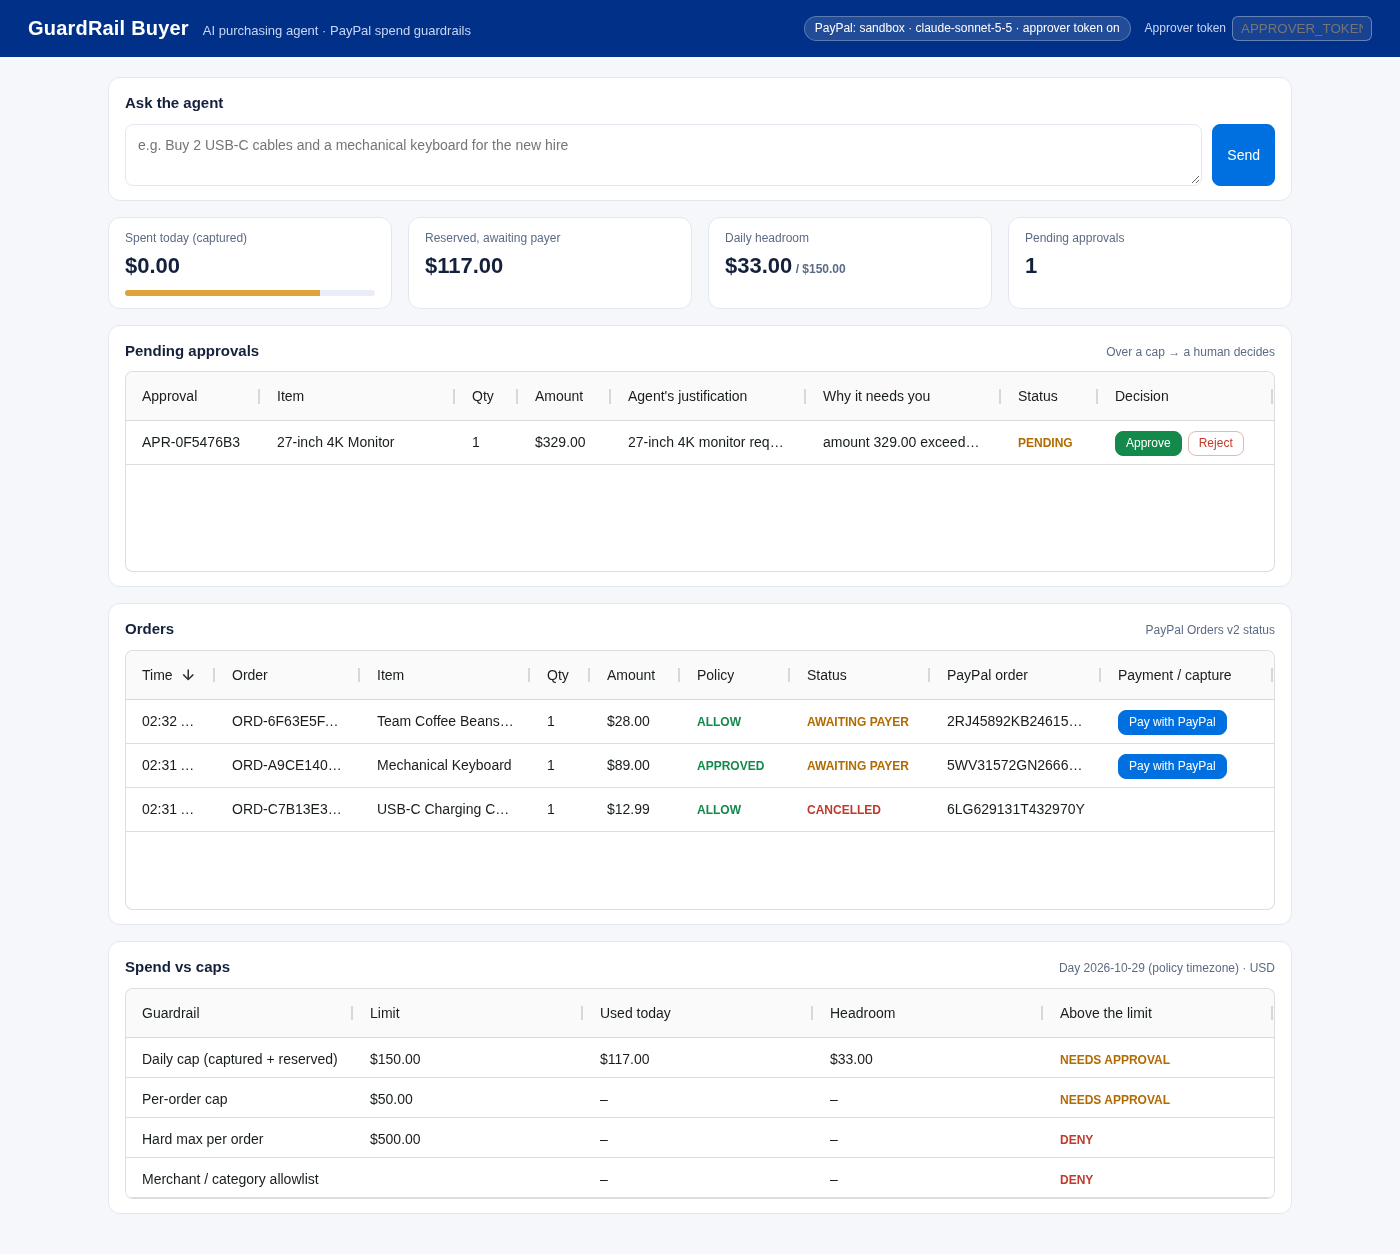
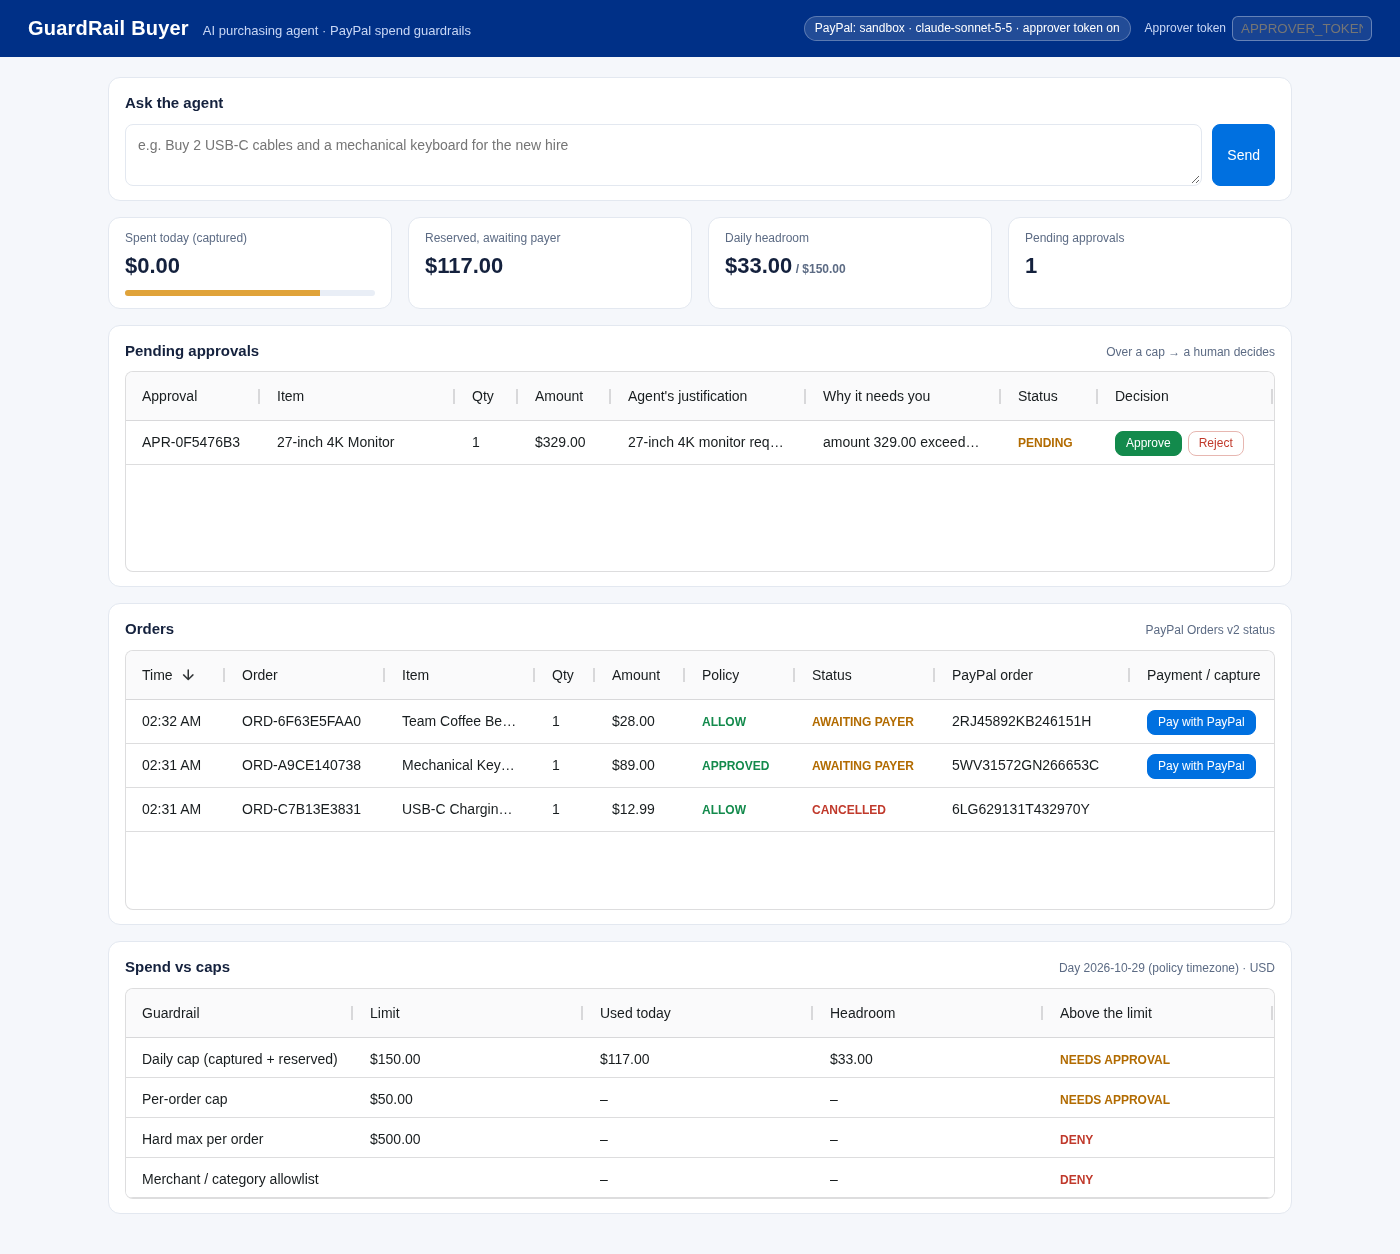
Fresh-clone fixes: venv quick start, CLI in-memory ledger + clean summary, fallback summary for empty model reply; requirements check; dashboard order-id column; refreshed screenshot and samples

diff --git a/app/static/app.js b/app/static/app.js
@@ -72,15 +72,15 @@ function payCell(p) {
 }
 const ordersGrid = agGrid.createGrid($("orders"), {
   columnDefs: [
-    {field: "created_at", headerName: "Time", width: 90, suppressSizeToFit: true, valueFormatter: time, sort: "desc"},
-    {field: "id", headerName: "Order", width: 145, suppressSizeToFit: true},
-    {field: "product_name", headerName: "Item", flex: 1, minWidth: 170},
+    {field: "created_at", headerName: "Time", width: 100, suppressSizeToFit: true, valueFormatter: time, sort: "desc"},
+    {field: "id", headerName: "Order", width: 160, suppressSizeToFit: true},
+    {field: "product_name", headerName: "Item", flex: 1, minWidth: 150},
     {field: "quantity", headerName: "Qty", minWidth: 60, maxWidth: 65},
     {field: "amount", headerName: "Amount", minWidth: 90, maxWidth: 95, valueFormatter: (p) => usd(p.value)},
     {headerName: "Policy", minWidth: 110, maxWidth: 115, valueGetter: (p) => p.data.approval_id ? "APPROVED" : (p.data.decision || {}).verdict,
       cellRenderer: statusCell},
     {field: "status", headerName: "Status", minWidth: 140, maxWidth: 150, cellRenderer: statusCell},
-    {field: "paypal_order_id", headerName: "PayPal order", minWidth: 160},
+    {field: "paypal_order_id", headerName: "PayPal order", width: 195, suppressSizeToFit: true},
     {headerName: "Payment / capture", minWidth: 160, cellRenderer: payCell, sortable: false},
   ],
   rowData: [], overlayNoRowsTemplate: "No orders yet: ask the agent above",

diff --git a/app/agent.py b/app/agent.py
@@ -76,6 +76,30 @@ def extract_summary(text: str) -> str:
     return m.group(1).strip() if m else strip_intro(text).strip()
 
 
+def fallback_summary(transcript: list[dict[str, Any]]) -> str:
+    """Deterministic summary built from tool results, used when the model's final
+    message is empty (seen live: an empty <summary> after parallel tool calls)."""
+    lines = []
+    for t in transcript:
+        if t.get("role") != "tool" or t.get("name") not in ("create_order", "request_approval"):
+            continue
+        out, inp = t.get("output") or {}, t.get("input") or {}
+        what = f"{inp.get('quantity', 1)} x {inp.get('product_id')}"
+        r = out.get("result")
+        o = out.get("order") or {}
+        if r == "ORDER_PLACED":
+            lines.append(f"- {what}: bought, order {o.get('id')} ${o.get('amount')}")
+        elif r == "AWAITING_PAYER_APPROVAL":
+            lines.append(f"- {what}: order {o.get('id')} ${o.get('amount')} awaits payer approval at {o.get('approve_url')}")
+        elif r == "APPROVAL_REQUESTED":
+            lines.append(f"- {what}: needs human approval ({out.get('approval_id')}): {'; '.join(out.get('reasons', []))}")
+        elif r == "DENIED":
+            lines.append(f"- {what}: refused: {'; '.join(out.get('reasons', []))}")
+        elif r == "FAILED":
+            lines.append(f"- {what}: PayPal order failed: {o.get('error') or o.get('paypal_status')}")
+    return "\n".join(lines)
+
+
 def strip_intro(text: str) -> str:
     """Remove a leading self-introduction sentence the model sometimes adds anyway."""
     out = _INTRO_RE.sub("", text, count=1)
@@ -157,7 +181,7 @@ class PurchasingAgent:
                 res.transcript.append({"role": "assistant", "text": "\n".join(texts)})
             tool_uses = [b for b in content if b.get("type") == "tool_use"]
             if resp.get("stop_reason") != "tool_use" or not tool_uses:
-                res.final_text = extract_summary("\n".join(texts))
+                res.final_text = extract_summary("\n".join(texts)) or fallback_summary(res.transcript)
                 res.stopped_reason = resp.get("stop_reason", "")
                 return res
             results = []

diff --git a/tests/test_agent.py b/tests/test_agent.py
@@ -59,3 +59,31 @@ def test_agent_tool_errors_are_returned_not_raised(service):
 def test_model_from_env(service, monkeypatch):
     monkeypatch.setenv("MODEL", "claude-test")
     assert PurchasingAgent(service, post=lambda p: {}).model == "claude-test"
+
+
+def test_cli_prints_clean_summary_and_uses_memory_db(monkeypatch, capsys, tmp_path):
+    import app.agent as agent_mod
+    from app import cli
+    monkeypatch.setenv("DB_PATH", str(tmp_path / "server.db"))  # server DB must not be touched
+    monkeypatch.delenv("CLI_DB_PATH", raising=False)
+    monkeypatch.setenv("PAYPAL_MODE", "mock")
+    resp = [{"stop_reason": "tool_use", "usage": {"input_tokens": 1, "output_tokens": 1},
+             "content": [tool_use(1, "create_order", {"product_id": "P-1001", "quantity": 1})]},
+            {"stop_reason": "end_turn", "usage": {"input_tokens": 1, "output_tokens": 1},
+             "content": [{"type": "text", "text": "<summary>- cable bought</summary>"}]}]
+    monkeypatch.setattr(agent_mod, "anthropic_post", scripted(resp))
+    assert cli.main(["a cable"]) == 0
+    out = capsys.readouterr().out
+    assert "- cable bought" in out and "<summary>" not in out
+    assert not (tmp_path / "server.db").exists()
+
+
+def test_empty_final_message_falls_back_to_tool_results(service):
+    post = scripted([
+        {"stop_reason": "tool_use", "usage": {},
+         "content": [tool_use(1, "request_approval", {"product_id": "P-1003", "quantity": 1, "justification": "j"}),
+                     tool_use(2, "create_order", {"product_id": "P-5001", "quantity": 1})]},
+        {"stop_reason": "end_turn", "usage": {}, "content": [{"type": "text", "text": "<summary></summary>"}]},
+    ])
+    res = PurchasingAgent(service, post=post).run("keyboard and gift card")
+    assert "needs human approval (APR-" in res.final_text and "P-5001: refused" in res.final_text

diff --git a/app/cli.py b/app/cli.py
@@ -1,6 +1,9 @@
 """Run the purchasing agent once from the command line (MockPayPal by default).
 
     python -m app.cli "Buy 2 USB-C cables and a mechanical keyboard"
+
+Uses a fresh in-memory ledger each run, so it does not share spend with a running
+server; set CLI_DB_PATH=guardrail.db to use the server's database instead.
 """
 from __future__ import annotations
 
@@ -18,15 +21,16 @@ def main(argv: list[str]) -> int:
     if not argv:
         print(__doc__)
         return 2
-    svc = build_service(db_path=os.environ.get("DB_PATH", ":memory:"))
+    svc = build_service(db_path=os.environ.get("CLI_DB_PATH", ":memory:"))
     res = PurchasingAgent(svc).run(" ".join(argv))
     for step in res.transcript:
         if step["role"] == "tool":
             out = step["output"]
             tag = out.get("result") or out.get("verdict") or f"{len(out.get('products', []))} products"
             print(f"  [tool] {step['name']}({json.dumps(step['input'])}) -> {tag}")
-        else:
-            print(f"[{step['role']}] {step['text']}\n")
+        elif step["role"] == "user":
+            print(f"[user] {step['text']}\n")
+    print(f"\n[agent]\n{res.final_text}\n")
     print(f"turns={res.turns} usage={res.usage} stop={res.stopped_reason}")
     print(f"spent_today={svc.spent_today()} pending_approvals={len(svc.store.list('approvals', 'PENDING'))}")
     return 0

diff --git a/docs/REQUIREMENTS_CHECK.md b/docs/REQUIREMENTS_CHECK.md
@@ -1,0 +1,55 @@
+# PayPal AI Hackathon — requirements check
+
+Source: Official Rules <https://paypalaihackathon.devpost.com/rules> and the Overview page
+<https://paypalaihackathon.devpost.com/>, re-read 2026-10-30.
+Deadline: **Nov 12, 2026 12:00 PM PST** (= Nov 13 04:00 Asia/Taipei).
+
+Legend: ✅ done · 🟡 partly / needs a decision · ❌ not done yet
+
+## Project requirements (Rules §4 "Project Requirements", Overview "Your project should")
+
+| # | Requirement | Status | Evidence / gap |
+|---|---|---|---|
+| 1 | Integrates the PayPal developer platform **using the free Sandbox** | ✅ | Orders v2 against `api-m.sandbox.paypal.com`: create (intent CAPTURE, payer-action link), GET status, capture, error handling (`app/paypal_client.py`). Verified live with `scripts/sandbox_smoke.py` → `docs/sandbox_smoke_run.txt` |
+| 2 | "PayPal integration is central to the project" / meaningful | ✅ | Every purchase is a PayPal order; spend is reserved at order creation and released on cancel/expiry/capture failure; capture only after buyer approval |
+| 3 | Meaningfully incorporates an AI tool/model | ✅ | Claude (Messages API, tool use) is the purchasing agent (`app/agent.py`); live transcripts in `docs/sample_transcript.json`, `docs/sample_cli_run.txt` |
+| 4 | Working prototype, functions as shown in video/description | ✅ | 57 offline tests; fresh-clone run of README steps 1–8 reproduced (mock mode) on 2026-10-30 |
+| 5 | Sufficiently documented for judges | ✅ | README: architecture, payment flow, repro steps "do X → see Y", REST API, configuration |
+| 6 | New, or significantly updated during the Submission Period (Oct 1 – Nov 12) | ✅ | New project; first commit 2026-10-30. Say "built from scratch during the hackathon" in the Devpost text |
+| 7 | Third-party APIs used within their terms | ✅ | PayPal Sandbox, Anthropic API, AG Grid Community (MIT) via CDN |
+| 8 | Sponsor-prize specific requirements (§8) | ✅ | Rules only require "use any AG Grid tools" — the dashboard uses AG Grid Community (3 grids: approvals with action buttons, orders with Pay links, spend vs caps). No further AG Grid conditions are listed |
+
+## Submission requirements
+
+| # | Requirement | Status | Evidence / gap |
+|---|---|---|---|
+| 9 | Text description of features and functionality | ❌ | Devpost form text not written yet. Draft from README intro + "What it does / How we built it / Challenges" |
+| 10 | Functional demo judges can run (setup instructions **or** hosted URL; mockups don't count) | 🟡 | Setup instructions work from a fresh clone in mock mode without any key, **but** the agent steps need an Anthropic API key and the Sandbox mode needs the judge's own PayPal Sandbox app. See gaps G2, G3 |
+| 11 | Public repo on GitHub/GitLab/Bitbucket with all source, assets, instructions | ❌ | Repo is local only (by design until the user confirms). Needs: create public GitHub repo, push |
+| 12 | Open-source licence file, detectable in the repo "About" section | 🟡 | `LICENSE` = MIT (GitHub detects it). Visible in About once pushed |
+| 13 | Tools: identify which AI tools/models were used and how | ✅ | README "AI tools used" (Claude runtime agent; Hark as coding assistant). Repeat in the Devpost form |
+| 14 | Demo video < 3 min, shows the project working, public on YouTube, link on form | ❌ | Not recorded. Must show the full loop incl. a real Sandbox buyer approval → `COMPLETED` |
+| 15 | Video without third-party trademarks / copyrighted music without permission | ❌ (pending video) | Use no music or royalty-free; avoid showing unrelated brand logos. PayPal Sandbox checkout page is the sponsor's own product |
+| 16 | Testing access free of charge until judging ends; include any test credentials / sandbox login details or clear instructions to obtain access | 🟡 | README explains how to create a Sandbox app + personal test account. See G3 |
+| 17 | English materials | ✅ | All repo docs in English |
+
+## Judging criteria (equal weight) — where we stand
+
+| Criterion | Strength | To strengthen |
+|---|---|---|
+| Technological implementation | Real Orders v2 lifecycle, idempotency, reservation accounting, structured PayPal errors, server-side guardrails the LLM cannot bypass, 57 tests | Optional: PayPal webhooks (`CHECKOUT.ORDER.APPROVED`, `PAYMENT.CAPTURE.COMPLETED`) instead of relying on the redirect; PayPal Agent Toolkit / MCP mention |
+| Design | One coherent dashboard: ask box → approvals → orders → spend vs caps | Order ids now fully visible; possible: show agent answer as cards, item column still truncates long names |
+| Potential impact | Clear problem: letting AI agents spend money safely (small teams, ops/procurement) | State the audience and a concrete scenario in the video's first 20 s |
+| Innovation | Deterministic policy gate between LLM and wallet; reserve-at-create stops "many unpaid orders" cap evasion | Mention in pitch |
+| Presentation | — | Video (G1) |
+
+Prize fit: Grand prizes; honorable mentions **Best Use of Agentic Commerce**, **Best Use of PayPal + AI**; sponsor prize **Best Use of AG Grid**.
+
+## Gaps / next actions
+
+- **G1 Demo video** (<3 min, YouTube public). Needs one full Sandbox buyer approval, done by the user in a browser with a Sandbox *personal* test account (no real money).
+- **G2 Agent without an API key.** Judges without an Anthropic key can only run the non-agent steps. Options: (a) an offline "scripted agent" mode that maps simple requests to tool calls, clearly labelled; (b) a hosted demo (e.g. Render, which is also a sponsor prize) with the key server-side and an approver token. Decision needed.
+- **G3 Sandbox credentials for judges.** Rules ask for "sandbox login details necessary to run". Options: keep "create your own Sandbox app" instructions (safe; mock mode works without it), or publish a throwaway Sandbox app's client id/secret in the Devpost testing instructions (Sandbox only, no real money, but anyone can use it). Decision needed — do not commit secrets to the repo.
+- **G4 Public GitHub repo + push** (user confirmation required), then check the licence shows in About.
+- **G5 Devpost text description + "AI tools used"** on the form.
+- **G6 (nice to have)** webhooks, Render deploy.

diff --git a/README.md b/README.md
@@ -77,10 +77,13 @@ cp .env.example .env               # then put your Anthropic key in ANTHROPIC_AP
 `.env` is loaded automatically (python-dotenv); real environment variables win.
 The defaults run with a **mock PayPal** (no PayPal account, no network). Only the agent
 steps (4 and 8 below) need an Anthropic API key; tests and every other step work without one.
+Run all commands from the repository root with the venv active (paths in `.env` are relative).
+The commands below use bash syntax (`VAR=value cmd`); on Windows set the variables in `.env` instead.
+If you serve on a port other than 8000, also set `PUBLIC_BASE_URL` (used for the PayPal return links).
 
 ### Repro steps ("do X → see Y")
 
-1. **Run the tests** — `python -m pytest -q` → see `55 passed` (no network, no API key needed).
+1. **Run the tests** — `python -m pytest -q` → see `56 passed` (no network, no API key needed).
 2. **Start the app** — `APPROVER_TOKEN=demo PAYPAL_MOCK_APPROVAL=1 uvicorn app.main:app --port 8000` →
    open <http://localhost:8000/> for the dashboard (or `/docs` for Swagger). Enter `demo` in the
    *Approver token* box. `PAYPAL_MOCK_APPROVAL=1` makes the offline mock behave like the real
@@ -100,7 +103,7 @@ steps (4 and 8 below) need an Anthropic API key; tests and every other step work
    `curl -X POST -H 'X-Approver-Token: demo' localhost:8000/approvals/<APR-id>/approve` → a new order
    linked to the approval, awaiting the buyer; `GET /spend` shows `total: 114.98`. Without the token → `401`.
 7. **Or reject it** — **Reject** / `POST /approvals/<APR-id>/reject` → status `REJECTED`, no money moves.
-8. **One-shot from the CLI** — `python -m app.cli "3 bags of coffee beans and 2 snack boxes"` → see each tool call and its verdict (see `docs/sample_cli_run.txt`).
+8. **One-shot from the CLI** — `python -m app.cli "3 bags of coffee beans and 2 snack boxes"` → see each tool call and its verdict (see `docs/sample_cli_run.txt`). The CLI starts from an empty in-memory ledger each run (`CLI_DB_PATH=guardrail.db` to share the server's).
 
 ### Against the real PayPal Sandbox
 
